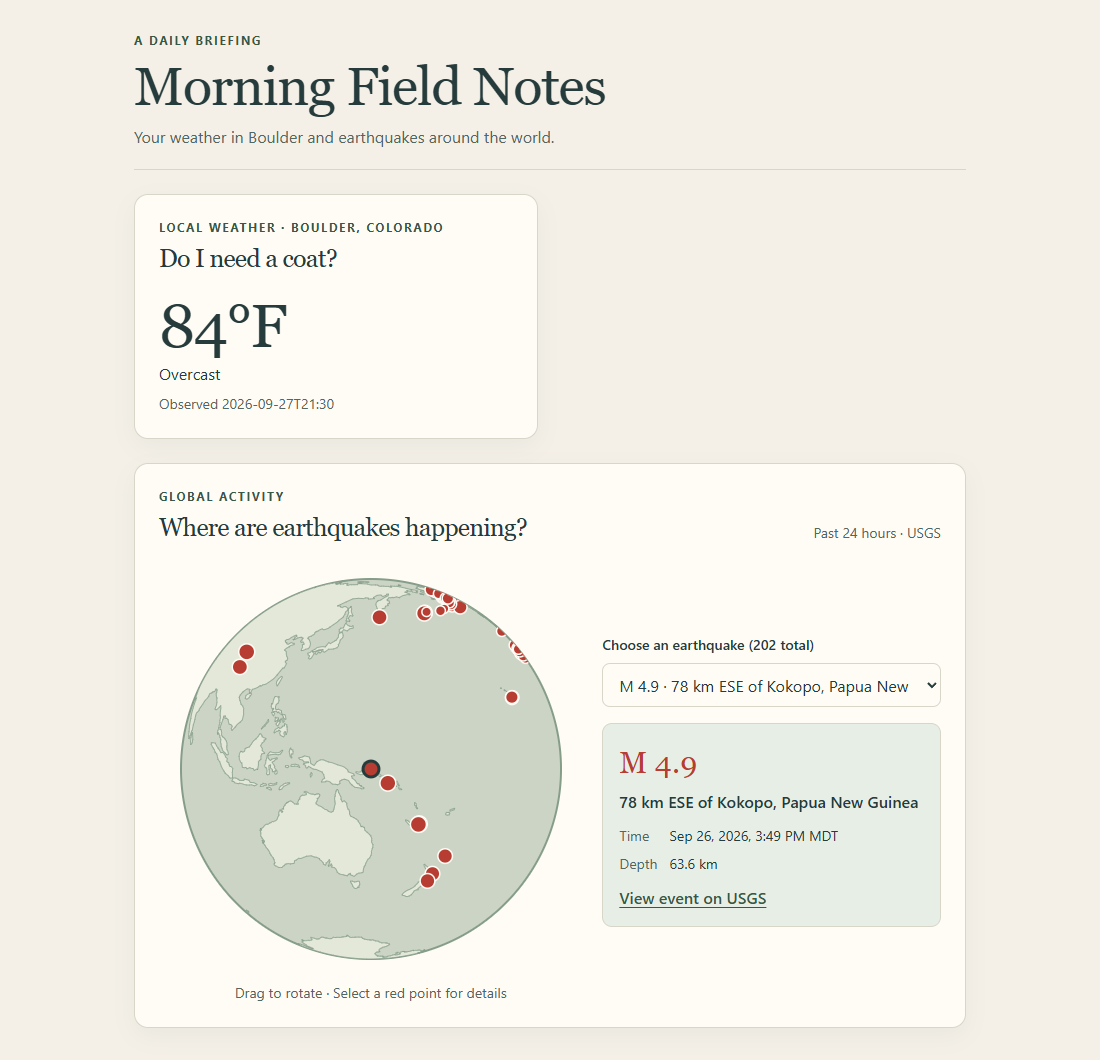
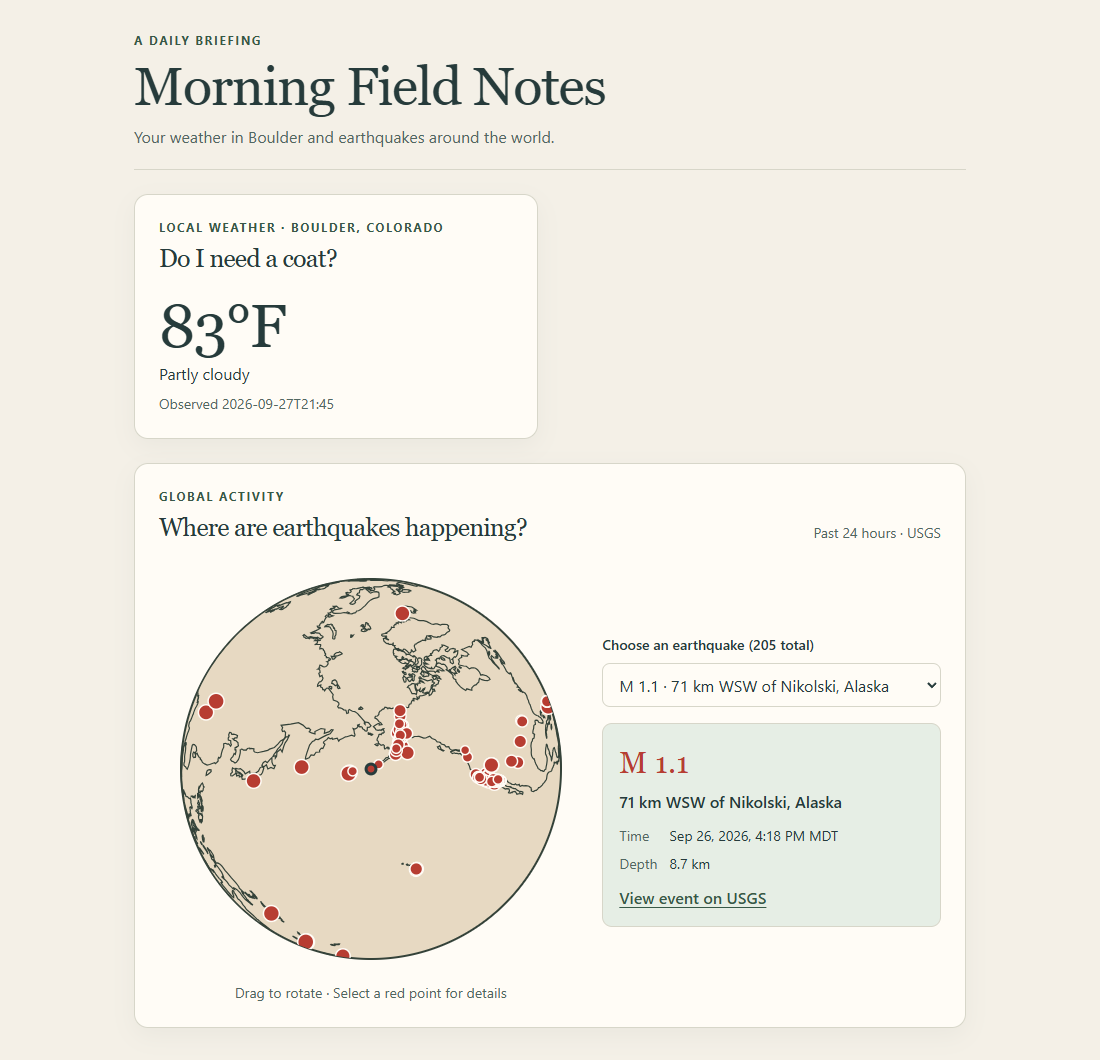
Refine earthquake globe and failure illustration

diff --git a/src/EarthquakeCard.tsx b/src/EarthquakeCard.tsx
@@ -30,6 +30,33 @@ interface DragStart {
 
 const topology = landTopology as unknown as Parameters<typeof feature>[0];
 const land = feature(topology, topology.objects.land);
+const errorLandPath = geoPath(geoOrthographic()
+  .scale(GLOBE_RADIUS)
+  .translate([GLOBE_SIZE / 2, GLOBE_SIZE / 2])
+  .rotate([-15, -10])
+  .clipAngle(90))(land);
+
+function CrackedGlobe() {
+  const crack = "M 208 20 L 191 70 L 222 112 L 190 155 L 213 198 L 187 239 L 219 279 L 192 322 L 211 363 L 201 400";
+
+  return (
+    <svg viewBox={`0 0 ${GLOBE_SIZE} ${GLOBE_SIZE}`} className="cracked-globe"
+      aria-hidden="true" focusable="false">
+      <defs>
+        <clipPath id="cracked-globe-clip">
+          <circle cx={GLOBE_SIZE / 2} cy={GLOBE_SIZE / 2} r={GLOBE_RADIUS} />
+        </clipPath>
+      </defs>
+      <circle className="globe-ocean" cx={210} cy={210} r={GLOBE_RADIUS} strokeWidth="2" />
+      {errorLandPath && <path className="globe-land" d={errorLandPath} strokeWidth="1.2" />}
+      <g clipPath="url(#cracked-globe-clip)">
+        <path className="globe-crack-edge" d={crack} />
+        <path className="globe-crack-gap" d={crack} />
+        <path className="globe-crack-branch" d="M 190 155 L 161 142 L 145 116 M 187 239 L 154 254 L 137 285 M 219 279 L 247 265 L 270 239" />
+      </g>
+    </svg>
+  );
+}
 
 function validNumber(value: unknown): number | null {
   return typeof value === "number" && Number.isFinite(value) ? value : null;
@@ -207,12 +234,16 @@ export function EarthquakeCard() {
       )}
 
       {status === "error" && (
-        <div className="error-panel mt-4" role="alert">
-          <p>Couldn&apos;t load earthquakes from USGS.</p>
-          <button type="button" onClick={retry}
-            className="action-button mt-3">
-            Try again
-          </button>
+        <div className="error-panel quake-error-panel mt-4" role="alert">
+          <CrackedGlobe />
+          <div>
+            <p className="quake-error-title">Earthquake data unavailable</p>
+            <p className="mt-1">Couldn&apos;t load earthquakes from USGS.</p>
+            <button type="button" onClick={retry}
+              className="action-button mt-3">
+              Try again
+            </button>
+          </div>
         </div>
       )}
 
@@ -234,7 +265,7 @@ export function EarthquakeCard() {
                 </clipPath>
               </defs>
               <circle className="globe-ocean" cx={210} cy={210} r={GLOBE_RADIUS} strokeWidth="2" />
-              {landPath && <path className="globe-land" d={landPath} strokeWidth="0.8" />}
+              {landPath && <path className="globe-land" d={landPath} strokeWidth="1.2" />}
               <g clipPath="url(#earthquake-globe-clip)">
                 {visibleEvents.map(({ event, x, y }) => (
                   <circle key={event.id} data-earthquake-marker="true" className="quake-marker" cx={x} cy={y}

diff --git a/src/index.css b/src/index.css
@@ -10,9 +10,9 @@
   --sage-dark: #375847;
   --sage-wash: #e6eee5;
   --line: #d7d6c9;
-  --globe-ocean: #ccd5c5;
-  --globe-land: #e4e8d9;
-  --globe-line: #869d8a;
+  --globe-cream: #e7d9c2;
+  --globe-line: #344239;
+  --globe-crack: #694533;
   --terracotta: #b73d32;
   --terracotta-dark: #8e2d26;
   --terracotta-wash: #f9e9e4;
@@ -96,6 +96,49 @@ select {
   padding: 1rem;
 }
 
+.quake-error-panel {
+  display: flex;
+  align-items: center;
+  gap: 1.5rem;
+  border-color: #d7c4ac;
+  background: #f3e9da;
+}
+
+.quake-error-title {
+  color: var(--ink);
+  font-family: Georgia, "Times New Roman", serif;
+  font-size: 1.5rem;
+}
+
+.cracked-globe {
+  display: block;
+  flex: 0 0 190px;
+  width: 190px;
+}
+
+.globe-crack-edge,
+.globe-crack-gap,
+.globe-crack-branch {
+  fill: none;
+  stroke-linecap: round;
+  stroke-linejoin: round;
+}
+
+.globe-crack-edge {
+  stroke: var(--globe-crack);
+  stroke-width: 17px;
+}
+
+.globe-crack-gap {
+  stroke: var(--card);
+  stroke-width: 6px;
+}
+
+.globe-crack-branch {
+  stroke: var(--globe-crack);
+  stroke-width: 5px;
+}
+
 .action-button,
 .secondary-button {
   border-radius: 8px;
@@ -168,12 +211,12 @@ select {
 }
 
 .globe-ocean {
-  fill: var(--globe-ocean);
+  fill: var(--globe-cream);
   stroke: var(--globe-line);
 }
 
 .globe-land {
-  fill: var(--globe-land);
+  fill: var(--globe-cream);
   stroke: var(--globe-line);
 }
 
@@ -195,5 +238,10 @@ select {
 @media (max-width: 640px) {
   .dashboard-card {
     padding: 1.2rem;
+  }
+
+  .quake-error-panel {
+    flex-direction: column;
+    text-align: center;
   }
 }
